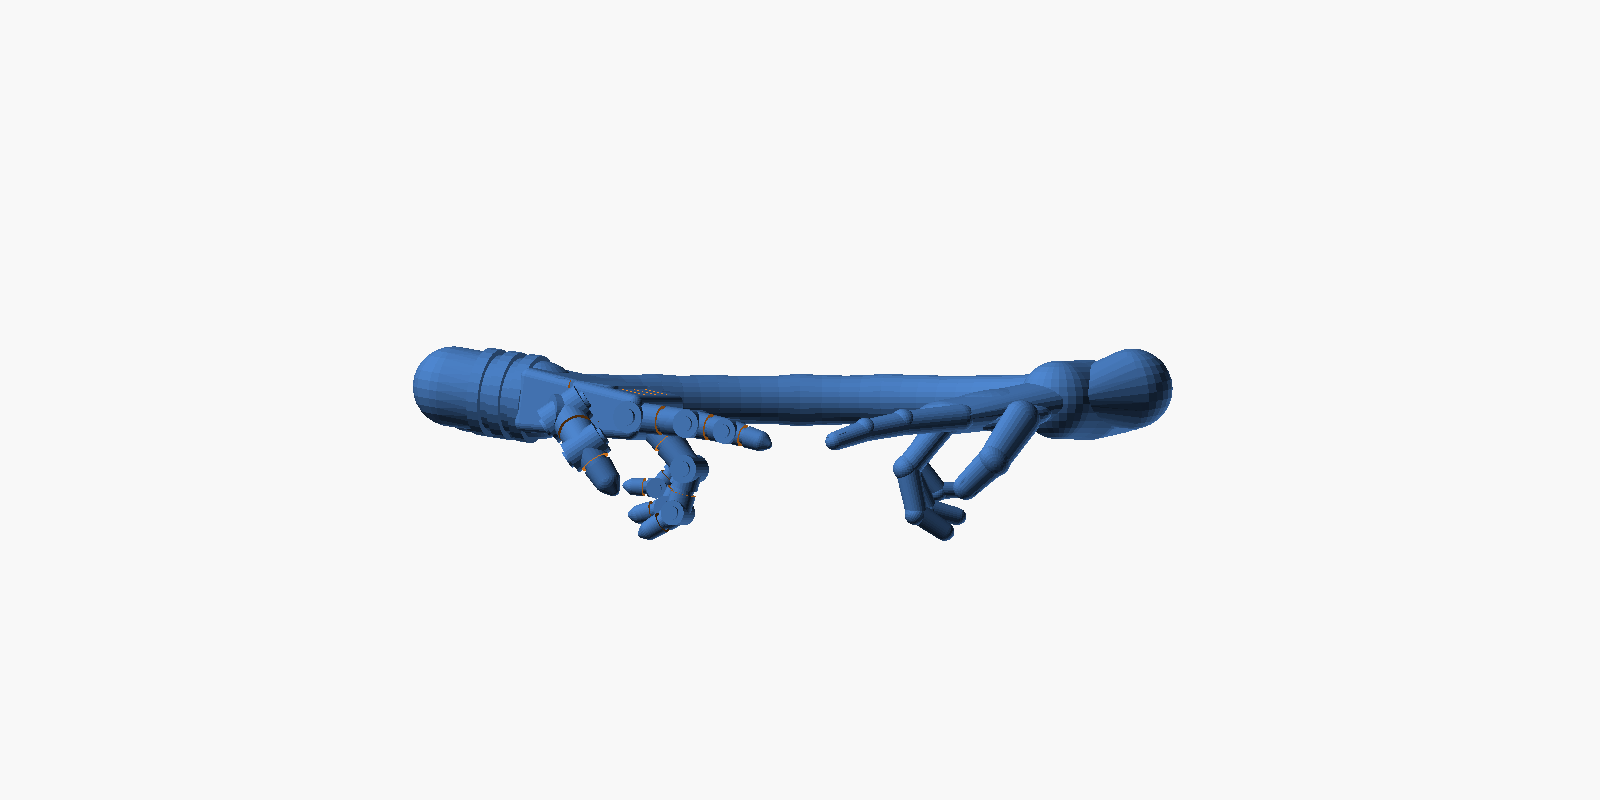
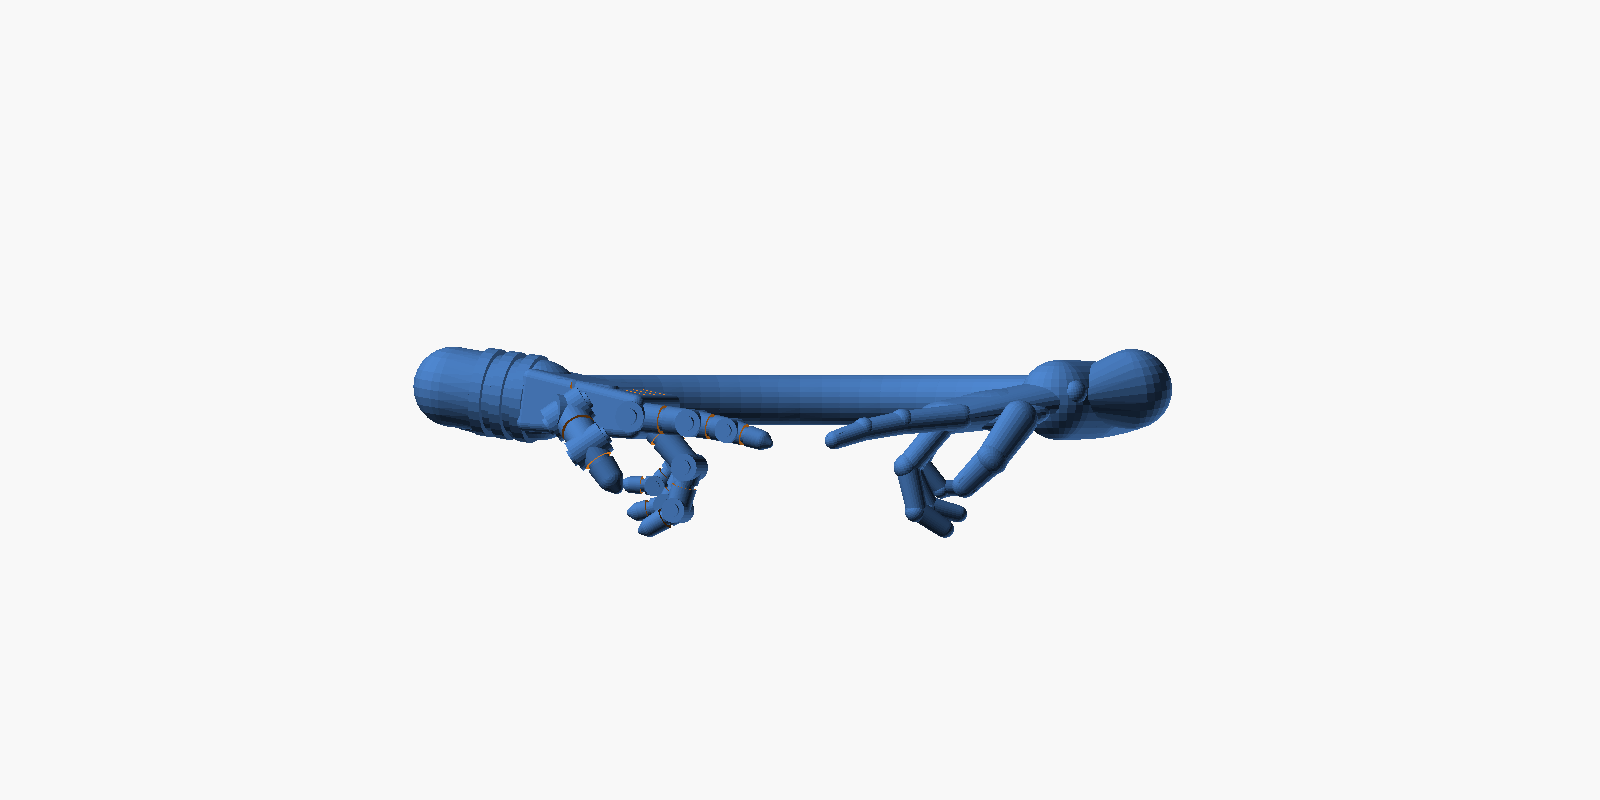
feat(cad): hammered flat-band ring preset for Creation Cuff
The cuff's ring preset now follows the ring reference: a wide flat band
(radial × axial profile) with planished facets, the human forearm tapering
out of the band instead of a bulb, the robot hand on a collared bulb, and
a wrist_bend parameter that heads each hand along the band's tangent bent
toward the chord, with hand length derived so the index tips meet tip_gap
apart. hands.scad accepts a flat wrist profile and adds a wrist knob.

Claude-Session: https://claude.ai/code/session_01RsA5ip4f8sea9xDVrZWY8N

Changed region(s): [[0.3125, 0.4688, 0.6562, 0.6875], [0.6562, 0.4688, 0.6875, 0.5]]

diff --git a/cad/creation_cuff/README.md b/cad/creation_cuff/README.md
@@ -9,9 +9,11 @@ almost touching — the *Creation of Adam* gesture.
   the back corner. The hands run along two adjacent sides and meet at the
   front corner; the fingers droop below the band. Modelled after the silver
   S925 ring reference, with the left hand swapped for the robot's.
-* **Creation Cuff** (`creation_cuff.scad`) — an open round bangle (or ring)
-  whose ends swell into wrists, from which the hands reach across the opening.
-  Modelled after the hammered bangle reference.
+* **Creation Cuff** (`creation_cuff.scad`) — an open band whose ends become
+  the wrists, from which the hands reach across the opening. The `bangle`
+  preset is the hammered round cuff with a bulb at each end; the `ring`
+  preset is the wide, planished flat band where the human forearm *is* the
+  band and the robot hand grows out of a collared bulb.
 
 | Creation Ring | Ring, top | Ring, side |
 |---|---|---|
@@ -93,12 +95,15 @@ openscad -o my_cuff.stl -D '$fn=48' -D 'preset="custom"' \
 | `preset` | `"bangle"` | `"ring"` | `"custom"` uses the `custom_*` values below |
 | `part` | `"assembly"` | | `"band"`, `"human_hand"`, `"robot_hand"` export one piece |
 | `custom_inner_diameter` | 62 | 17.3 | Inside diameter at the thin back of the band |
-| `custom_band_thickness` | 5 | 1.9 | Diameter of the round band profile at the back |
-| `custom_band_swell` | 8 | 2.8 | Band profile diameter where it swells into the wrists |
-| `custom_gap_angle` | 95° | 100° | Opening between the band ends; the hands are sized to fill it |
+| `custom_band_thickness` | 5 | 2.0 | Radial thickness of the band at the back |
+| `custom_band_width` | 5 | 4.2 | Axial width of the band at the back (equal to thickness for a round band) |
+| `custom_band_swell` | 8 | 3.4 | Diameter of the bulb the robot hand grows out of |
+| `custom_human_end` | `"bulb"` | `"forearm"` | Human side ends in a matching bulb, or the band tapers into the forearm |
+| `custom_band_facets` | 0 | 14 | Facets per circle for the band alone; 12–16 gives planished hammer marks, 0 uses `$fn` |
+| `custom_gap_angle` | 95° | 110° | Opening between the band ends; the hands are sized to fill it |
 | `custom_tip_gap` | 3 | 0.8 | Space left between the two fingertips |
-| `custom_finger_thickness` | 1.0 | 1.6 | Multiplier on finger diameters, for castability at small scale |
-| `meet_inset` | 0 | | Move the meeting point inward from the band circle |
+| `custom_finger_thickness` | 1.0 | 1.5 | Multiplier on finger diameters, for castability at small scale |
+| `wrist_bend` | 0.55 | | 0 = hands continue the band's curve, 1 = they point straight across; the hands are lengthened so the tips still meet |
 | `hand_pitch` | 8° | | Droop of the hands below the band plane |
 | `hand_roll` | 0° | | Twist of each hand about its forearm |
 | `finger_curl` | 1.0 | | Scales how tightly the three tucked fingers curl |
@@ -106,9 +111,10 @@ openscad -o my_cuff.stl -D '$fn=48' -D 'preset="custom"' \
 | `hammer` | 0.05 | | Hammered relief on the outside of the band, as a fraction of band radius (0 = smooth) |
 | `$fn` | 28 | | Facets per circle; use 48–64 for the final export |
 
-The hands are **derived**: their length is the distance from the band end to
-the meeting point minus half the tip gap, so changing the diameter or gap
-re-sizes and re-aims them automatically. The console prints the hand length
+The hands are **derived**: each one heads out along the band's tangent, bent
+toward the chord by `wrist_bend`, and is made exactly long enough for the two
+index tips to meet on the centre plane `tip_gap` apart. Changing the diameter,
+gap or bend re-sizes and re-aims them automatically. The console prints the hand length
 and the thinnest feature (pinky tip) and warns when that drops under 0.8 mm.
 
 ### Ring sizes
@@ -130,11 +136,12 @@ grows outward only, so the fit is not affected by it.
   bore is subtracted afterwards so the inside is a flat, engravable face.
   The arms drift apart axially as they approach the back corner so they read
   as crossing.
-* **Cuff band** — a sweep of hulled spheres around an arc of `360 − gap` degrees.
-  The sphere radius follows a smooth-step from `band_thickness/2` at the back
-  to `band_swell/2` at each end, and a seeded random jitter gives the
-  hammered surface. Because the sphere centres sit at `inner_radius + r`, the
-  bore stays perfectly round.
+* **Cuff band** — a sweep of hulled ellipsoids around an arc of `360 − gap`
+  degrees. The profile (radial × axial) smooth-steps from the back section to
+  each end section: a round bulb on the robot side, a bulb or a slimmer
+  forearm on the human side. A seeded jitter and, on the ring preset, a
+  deliberately low facet count give the hammered surface. Because the
+  centres sit at `inner_radius + r`, the bore stays perfectly round.
 * **Human hand** — wrist and palm are hulled ellipsoids with a metacarpal dome
   and a thenar pad; each finger is a recursive chain of hulled, slightly
   flattened spheres with per-joint flexion and a nail on the index and thumb.
